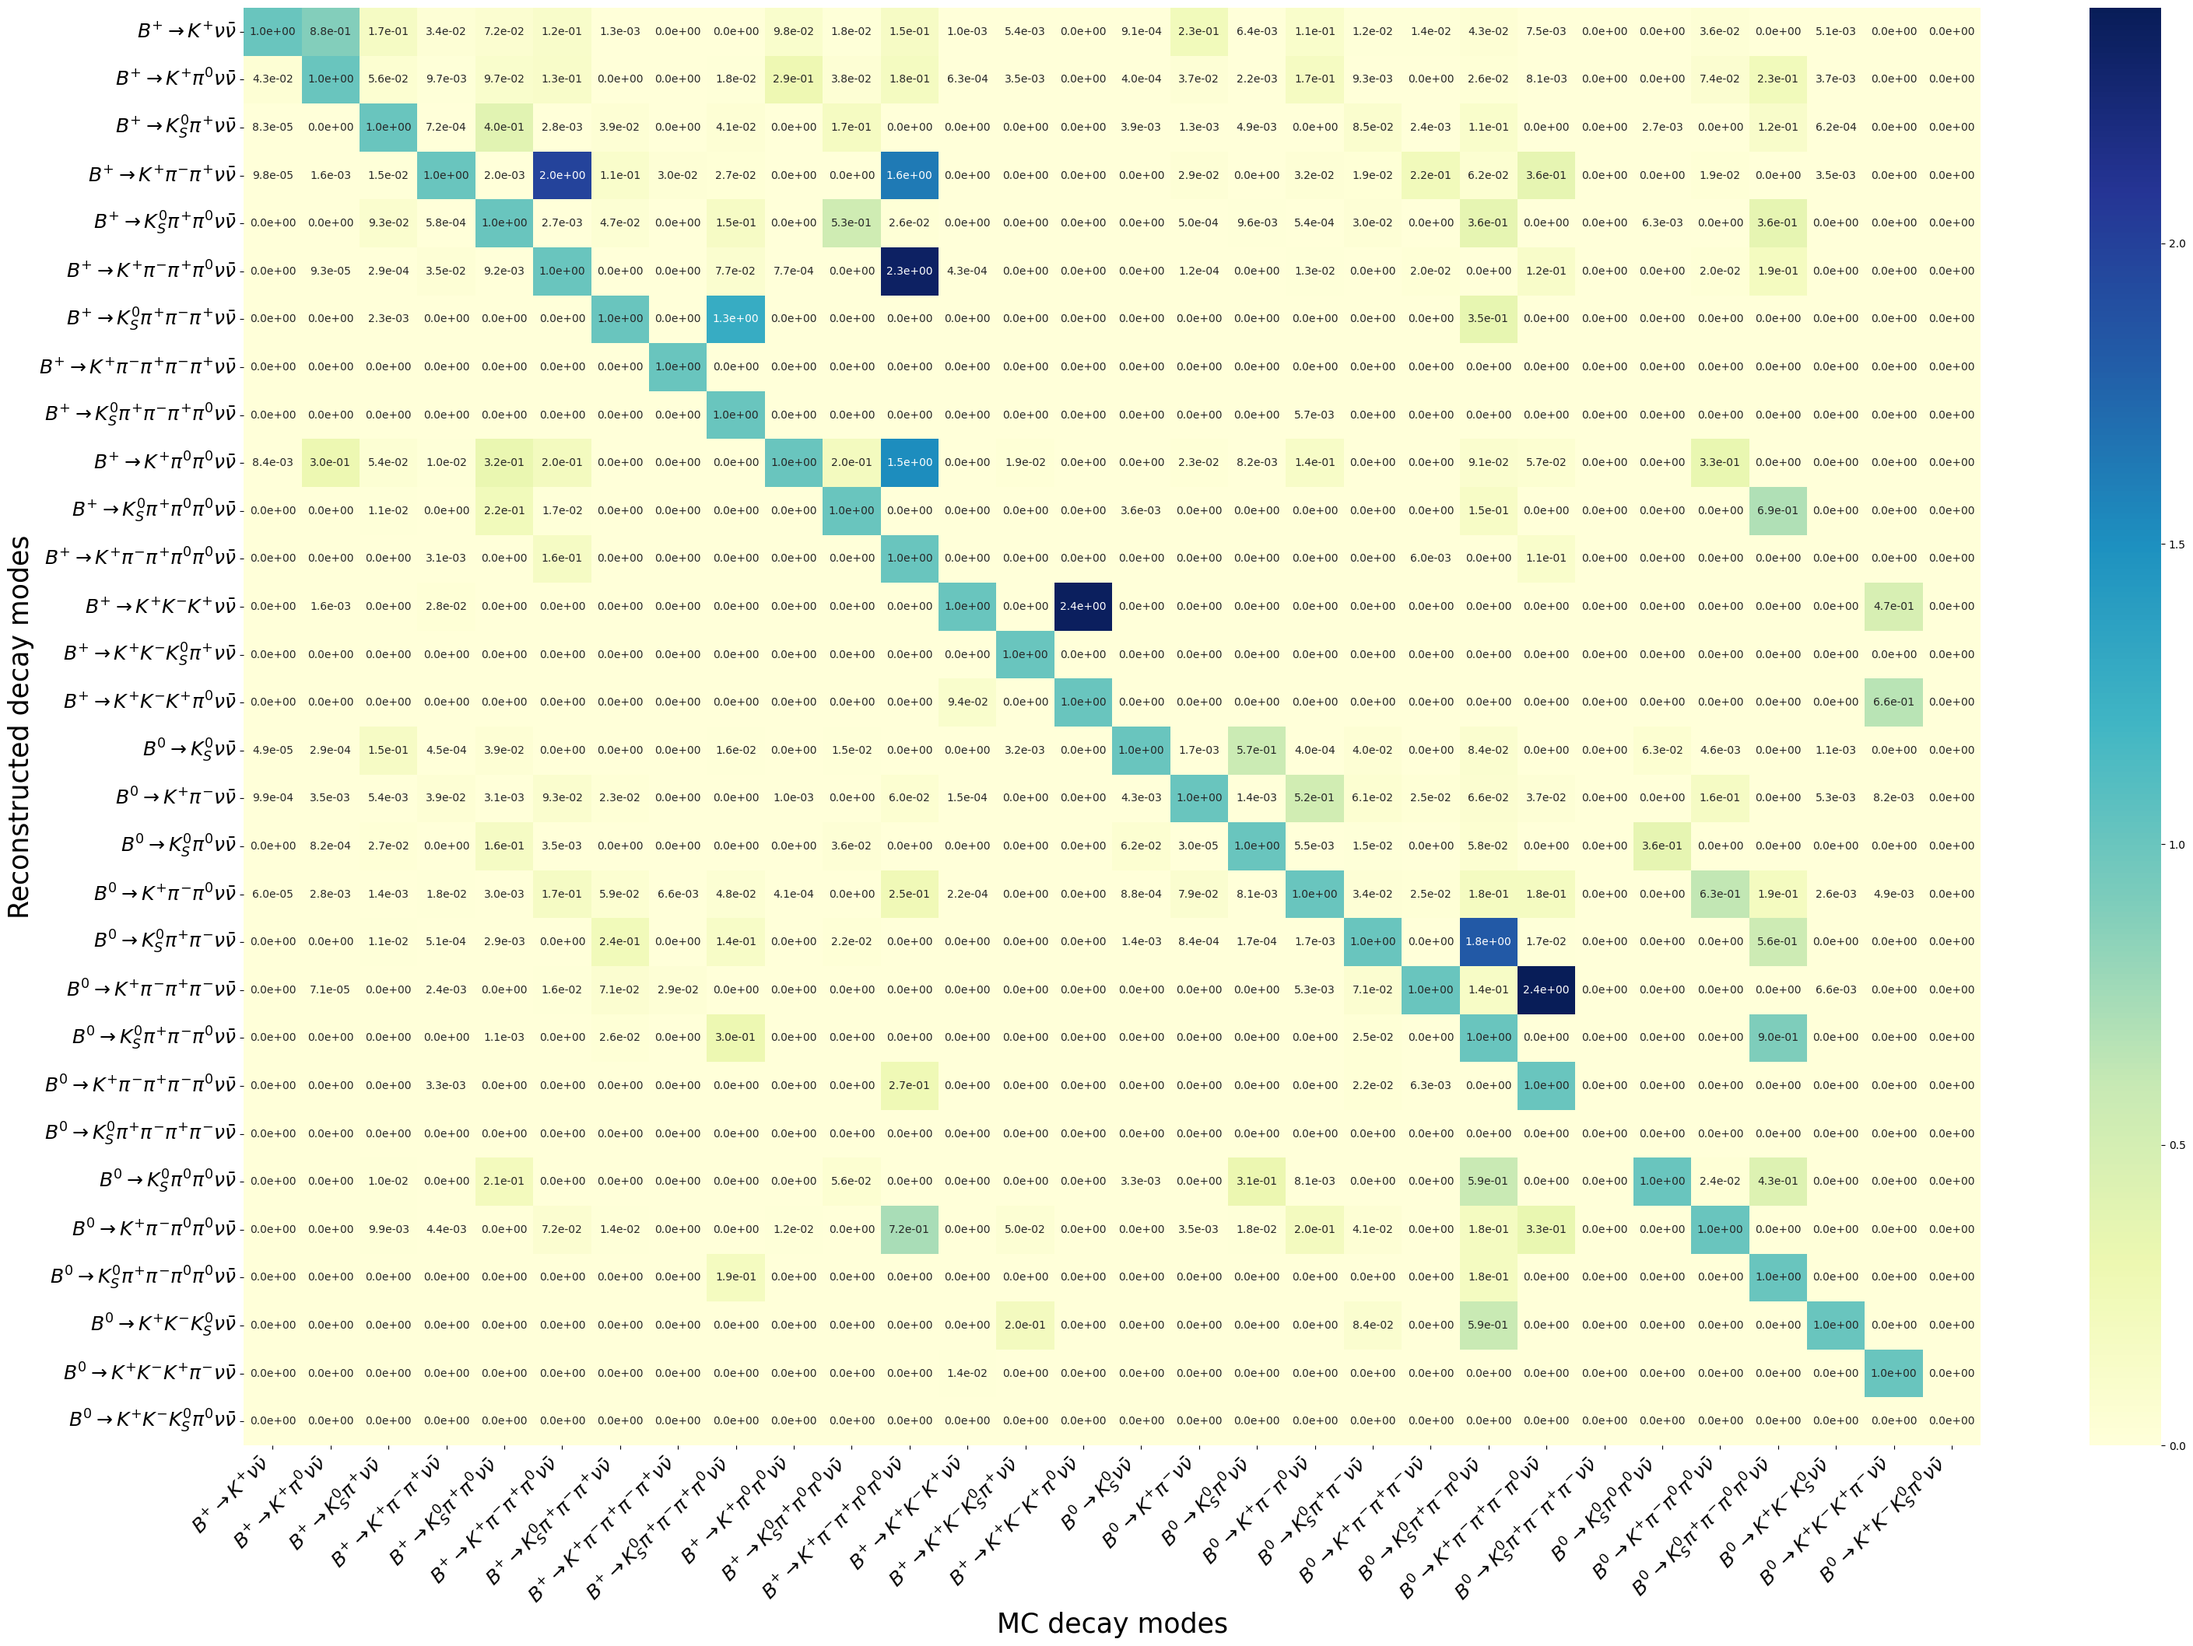
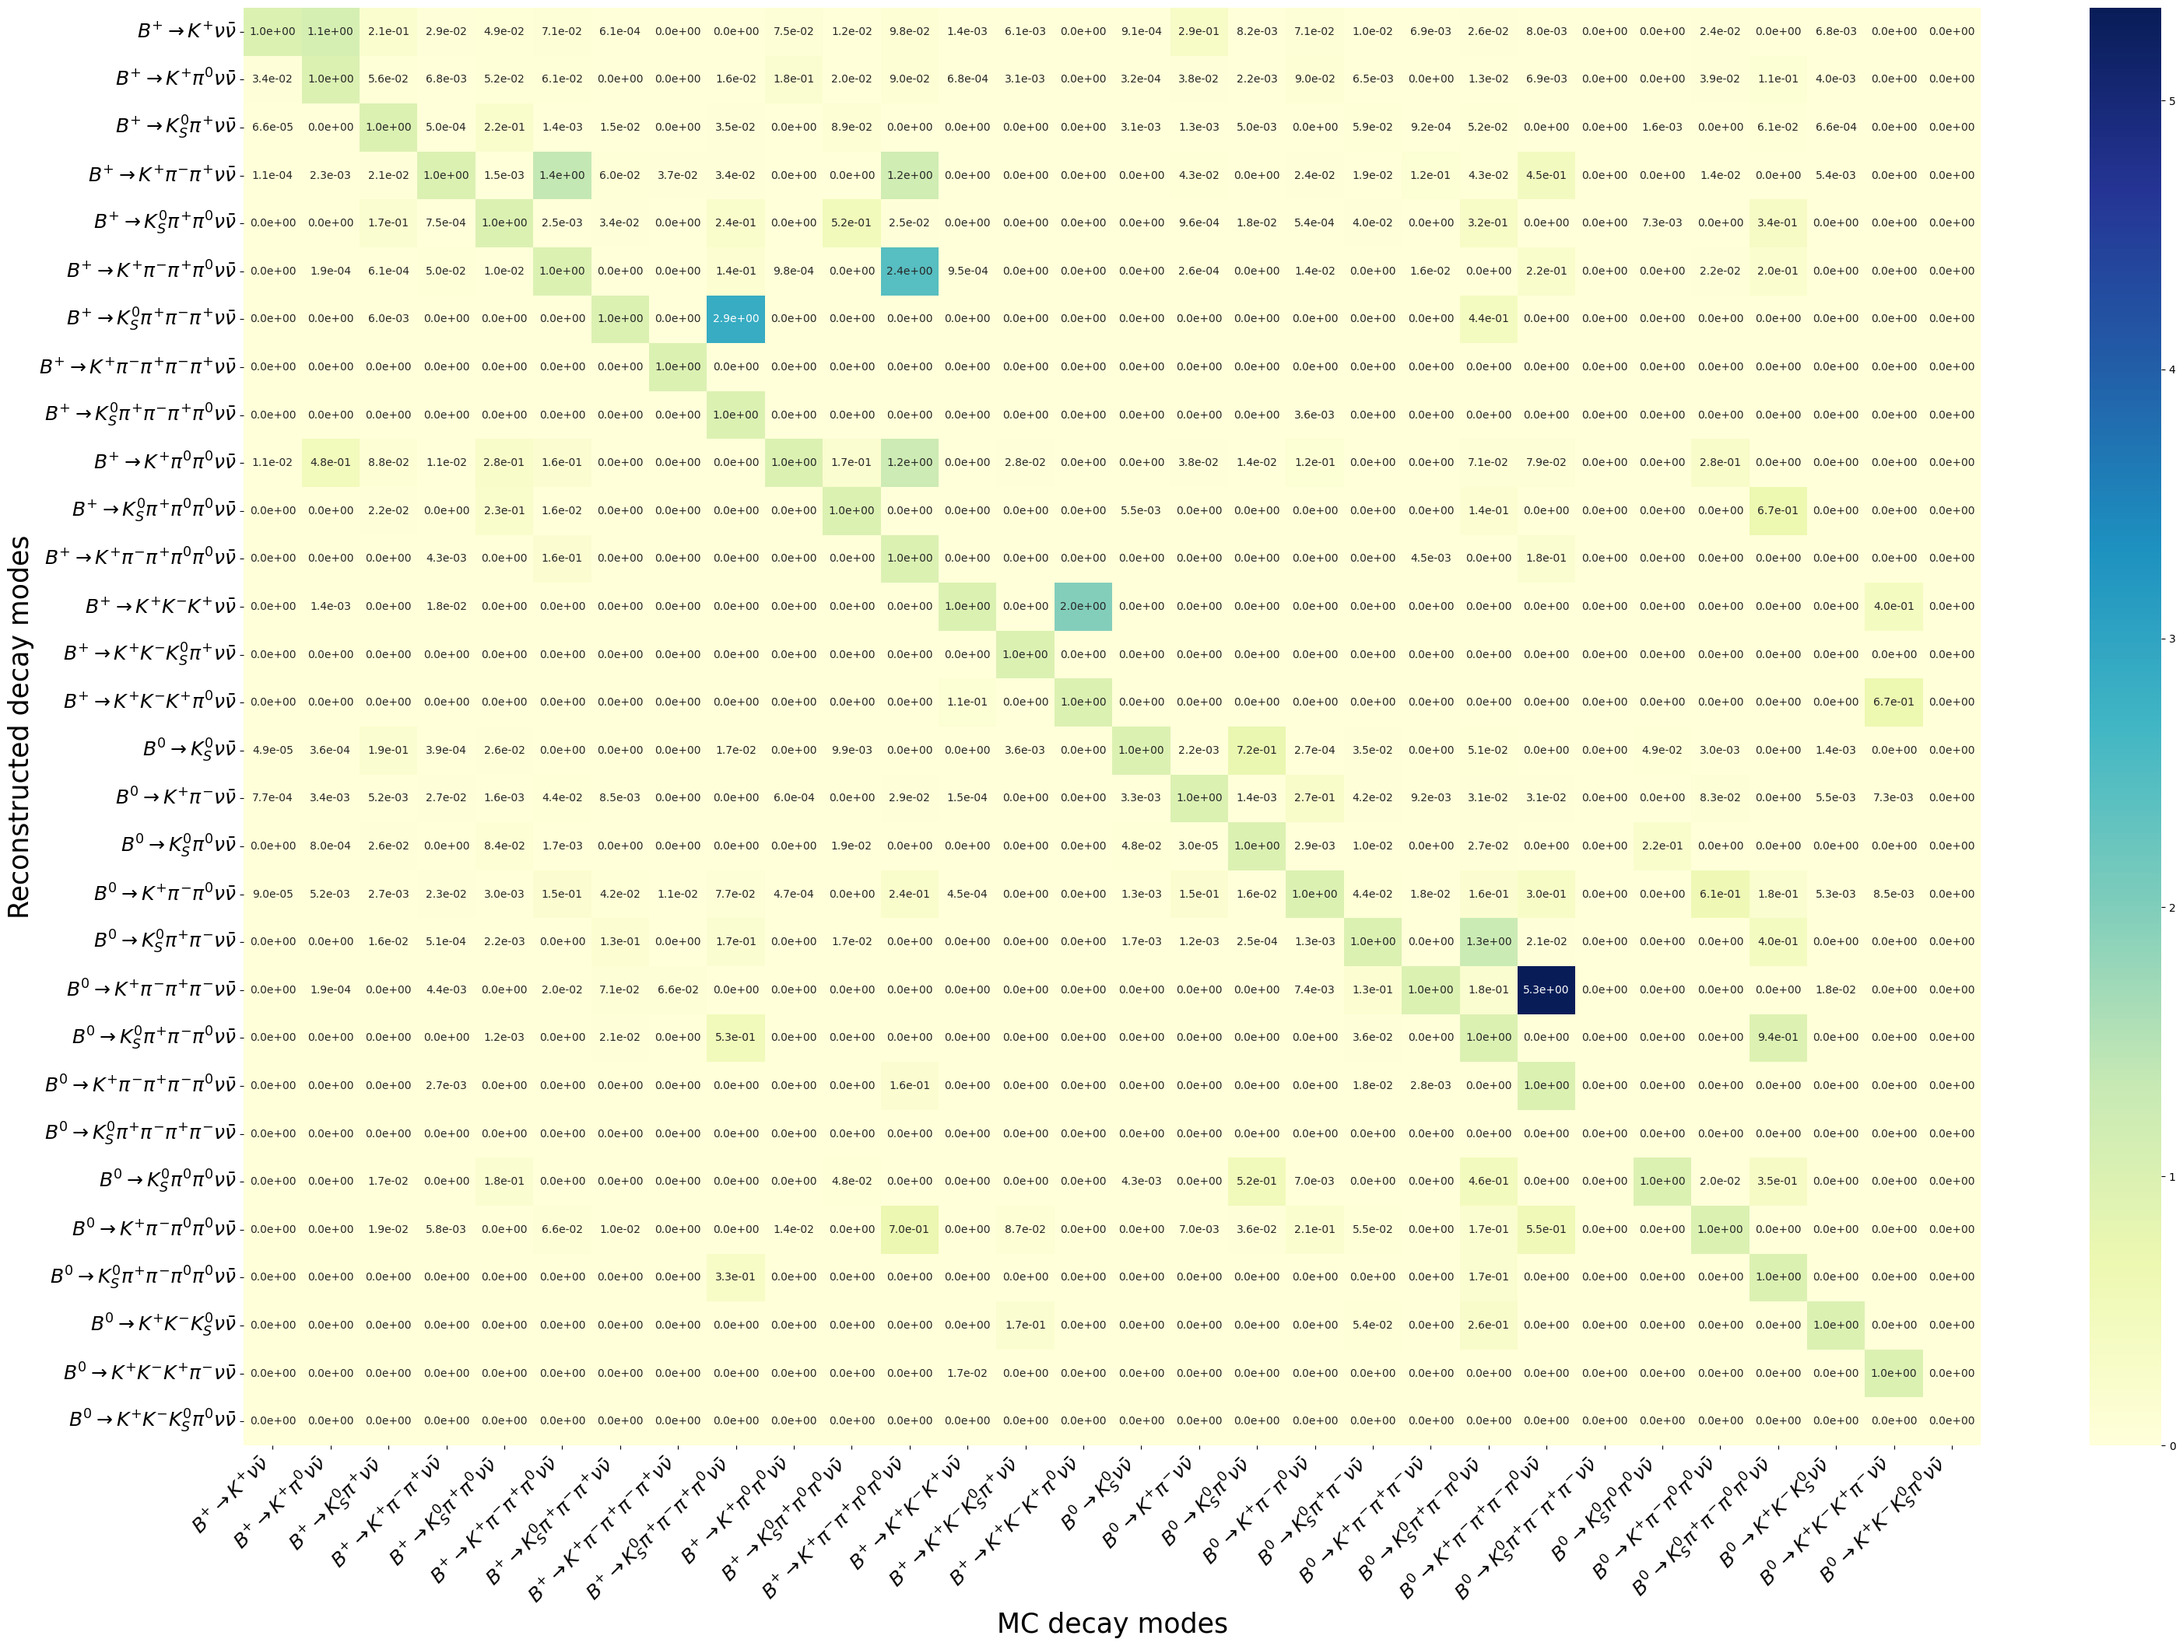
update initial num Nevt why?

diff --git a/Belle2/Diagonal_Efficiency_Per_Mode.py b/Belle2/Diagonal_Efficiency_Per_Mode.py
@@ -46,67 +46,37 @@ reco_list = [r"$B^{+}\rightarrow K^{+}\nu\bar{\nu}$",
              ]
 
 correction = []
-correction.append(2001.326190
-)
-correction.append(1506.613291
-)
-correction.append(2996.646553
-)
-correction.append(847.244136
-)
-correction.append(1350.071124
-)
-correction.append(739.172262
-)
-correction.append(273.304988
-)
-correction.append(25.386126
-)
-correction.append(128.884799
-)
-correction.append(180.978819
-)
-correction.append(174.618623
-)
-correction.append(140.444228
-)
-correction.append(44.038214
-)
-correction.append(20.981938
-)
-correction.append(10.445723
-)
-correction.append(1752.974136
-)
-correction.append(2705.061027
-)
-correction.append(1348.376640
-)
-correction.append(1399.132666
-)
-correction.append(863.212404
-)
-correction.append(281.219748
-)
-correction.append(753.624925
-)
-correction.append(132.106974
-)
-correction.append(25.852509
-)
-correction.append(183.959493
-)
-correction.append(179.822153
-)
-correction.append(142.542458
-)
-correction.append(44.335342
-)
-correction.append(13.847536
-)
-correction.append(10.492807
-)
-correction.append(1948.325107)
+correction.append(1995.975877)
+correction.append(1875.268446)
+correction.append(3734.842877)
+correction.append(735.426985)
+correction.append(901.774187)
+correction.append(445.034176)
+correction.append(130.532415)
+correction.append(27.387386)
+correction.append(137.613078)
+correction.append(138.883082)
+correction.append(113.435178)
+correction.append(88.451014)
+correction.append(59.125259)
+correction.append(23.531777)
+correction.append(11.700276)
+correction.append(1748.551733)
+correction.append(3464.949948)
+correction.append(1724.604618)
+correction.append(933.092093)
+correction.append(750.245437)
+correction.append(134.413744)
+correction.append(453.176426)
+correction.append(141.092575)
+correction.append(27.900974)
+correction.append(141.230389)
+correction.append(116.802087)
+correction.append(89.772413)
+correction.append(59.513802)
+correction.append(15.785913)
+correction.append(11.798432)
+correction.append(1943.409873)
 
 Efficiency_diagonal = []
 Efficiency = np.zeros((30,30))

diff --git a/Belle2/Efficiency_Matrix.py b/Belle2/Efficiency_Matrix.py
@@ -78,67 +78,37 @@ gen_list = [r"$B^{+}\rightarrow K^{+}\nu\bar{\nu}$",
             ]
 
 correction = []
-correction.append(2001.326190
-)
-correction.append(1506.613291
-)
-correction.append(2996.646553
-)
-correction.append(847.244136
-)
-correction.append(1350.071124
-)
-correction.append(739.172262
-)
-correction.append(273.304988
-)
-correction.append(25.386126
-)
-correction.append(128.884799
-)
-correction.append(180.978819
-)
-correction.append(174.618623
-)
-correction.append(140.444228
-)
-correction.append(44.038214
-)
-correction.append(20.981938
-)
-correction.append(10.445723
-)
-correction.append(1752.974136
-)
-correction.append(2705.061027
-)
-correction.append(1348.376640
-)
-correction.append(1399.132666
-)
-correction.append(863.212404
-)
-correction.append(281.219748
-)
-correction.append(753.624925
-)
-correction.append(132.106974
-)
-correction.append(25.852509
-)
-correction.append(183.959493
-)
-correction.append(179.822153
-)
-correction.append(142.542458
-)
-correction.append(44.335342
-)
-correction.append(13.847536
-)
-correction.append(10.492807
-)
-correction.append(1948.325107)
+correction.append(1995.975877)
+correction.append(1875.268446)
+correction.append(3734.842877)
+correction.append(735.426985)
+correction.append(901.774187)
+correction.append(445.034176)
+correction.append(130.532415)
+correction.append(27.387386)
+correction.append(137.613078)
+correction.append(138.883082)
+correction.append(113.435178)
+correction.append(88.451014)
+correction.append(59.125259)
+correction.append(23.531777)
+correction.append(11.700276)
+correction.append(1748.551733)
+correction.append(3464.949948)
+correction.append(1724.604618)
+correction.append(933.092093)
+correction.append(750.245437)
+correction.append(134.413744)
+correction.append(453.176426)
+correction.append(141.092575)
+correction.append(27.900974)
+correction.append(141.230389)
+correction.append(116.802087)
+correction.append(89.772413)
+correction.append(59.513802)
+correction.append(15.785913)
+correction.append(11.798432)
+correction.append(1943.409873)
 
 for i in range(0,30):
     for j in range(0,31):
